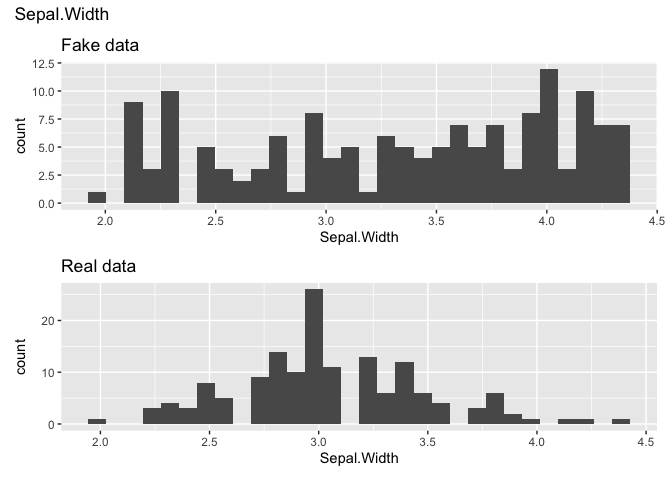
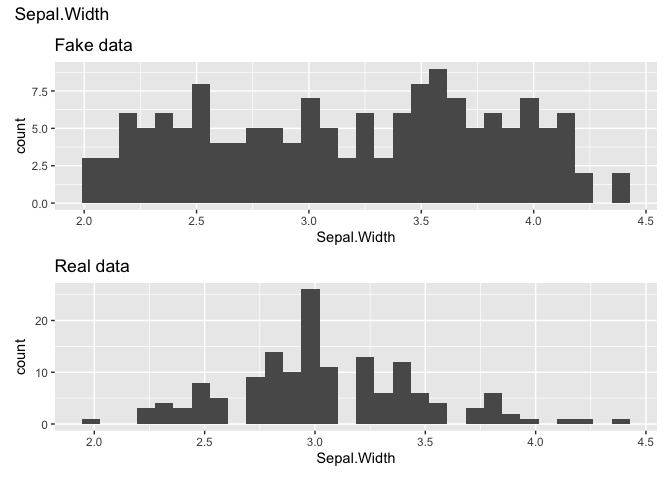
Fix README

diff --git a/README.md b/README.md
@@ -47,7 +47,7 @@ head(dataset, 10)
 #> 10          4.9         3.1            2         0.1  setosa
 
 fake_dataset <- fake_this(dataset) |>
-  fake_preserve(Sepal.Length, Species) |>
+  fake_preserve(Sepal.Length) |>
   fake_generate()
 #> Var: Sepal.Length
 #> Var: Sepal.Width
@@ -80,12 +80,19 @@ fake_vars <- fake_dataset$info %>%
   dplyr::pull(name)
 
 for (var in fake_vars) {
+  
+  if (!is.character(fake_dataset$dataset[[var]])) {
+    geom_fn <- geom_histogram
+  } else {
+    geom_fn <- geom_bar
+  }
+  
   fake_plot <-  ggplot(fake_dataset$dataset, aes(.data[[var]])) +
-    geom_histogram() +
+    geom_fn() +
     labs(title = "Fake data")
 
   real_plot <- ggplot(iris, aes(.data[[var]])) +
-    geom_histogram() +
+    geom_fn() +
     labs(title = "Real data")
 
   p <- fake_plot / real_plot +
@@ -107,4 +114,4 @@ for (var in fake_vars) {
     #> `stat_bin()` using `bins = 30`. Pick better value with `binwidth`.
     #> `stat_bin()` using `bins = 30`. Pick better value with `binwidth`.
 
-<img src="man/figures/README-unnamed-chunk-3-3.png" width="100%" />
+<img src="man/figures/README-unnamed-chunk-3-3.png" width="100%" /><img src="man/figures/README-unnamed-chunk-3-4.png" width="100%" />
